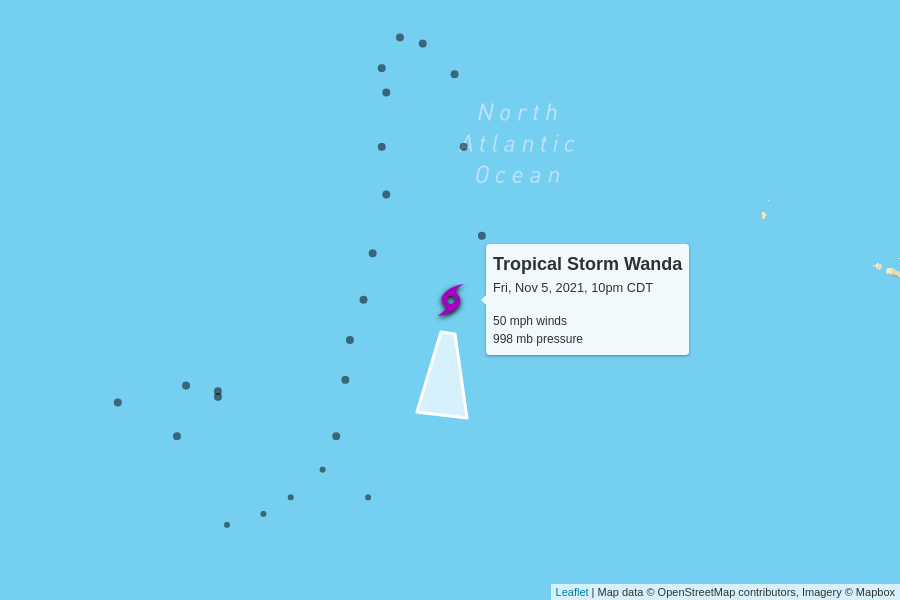
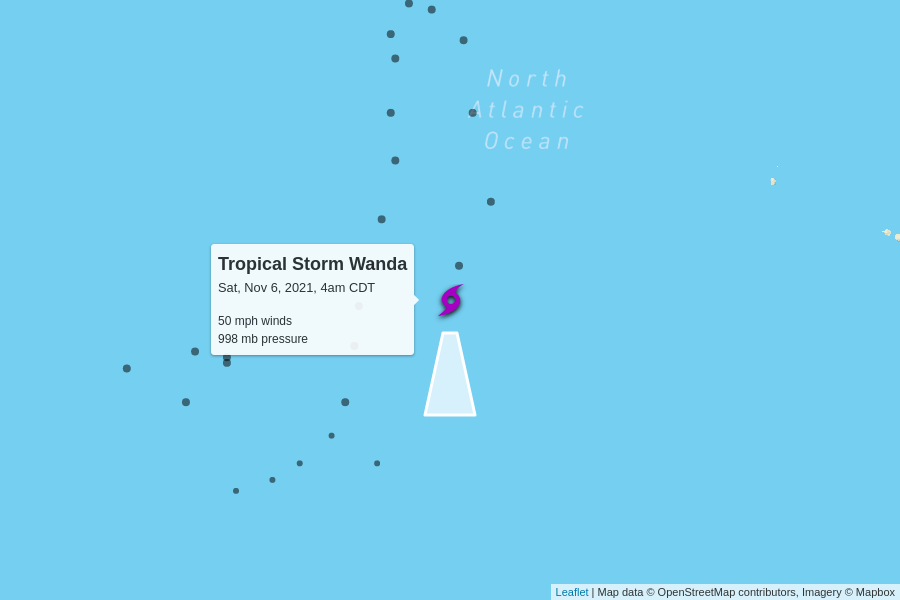
automatic update

diff --git a/docs/index.html b/docs/index.html
@@ -100,7 +100,7 @@
         <td colspan="6" class="storm category-0" >
           <h2>
             Tropical Storm Wanda
-            <p class="updated">last updated <span data-time>2021-11-06T03:00:00.000Z</span></p>
+            <p class="updated">last updated <span data-time>2021-11-06T09:00:00.000Z</span></p>
           </h2>
         </td>
       </tr>
@@ -118,9 +118,9 @@
         <td>50 mph</td>
         <td>998 mb</td>
         <td>
-          9 mph to the south
+          5 mph to the south
           <br/>
-          <span style="display: inline-block; font-size: 1.5em; transform: rotate(185deg);">↑</span>
+          <span style="display: inline-block; font-size: 1.5em; transform: rotate(180deg);">↑</span>
         </td>
         <td><a href="https://raw.githubusercontent.com/mgwalker/atlantic-hurricanes/main/data/csv/AL212021.csv">AL212021.csv</a></td>
         <td><a href="https://www.nhc.noaa.gov/archive/2021/WANDA.shtml?">NHC advisories</a></td>
